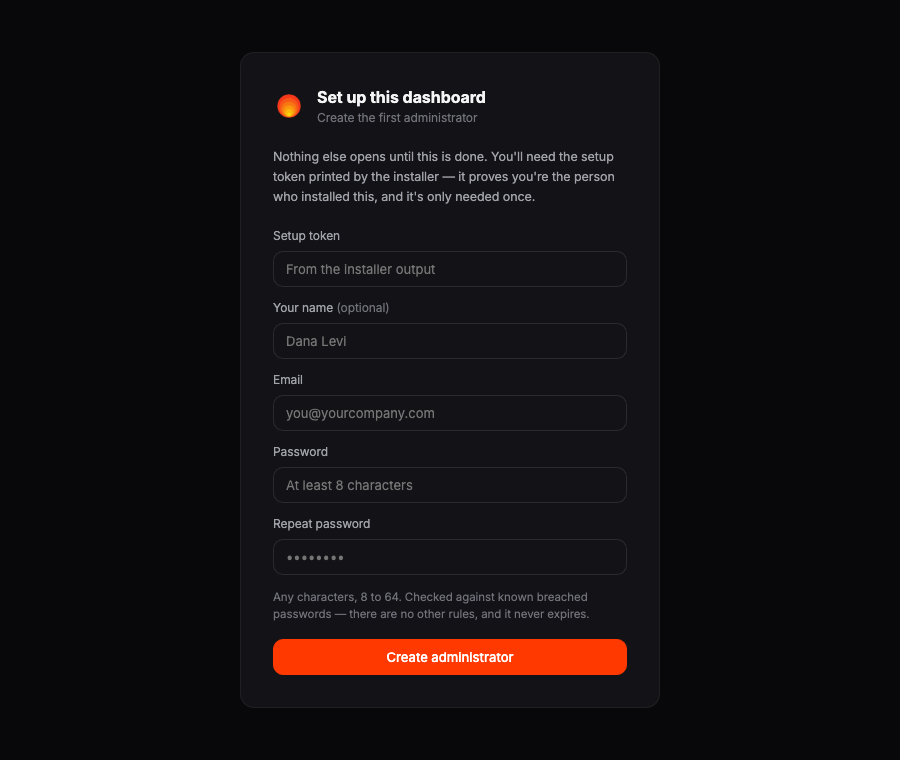
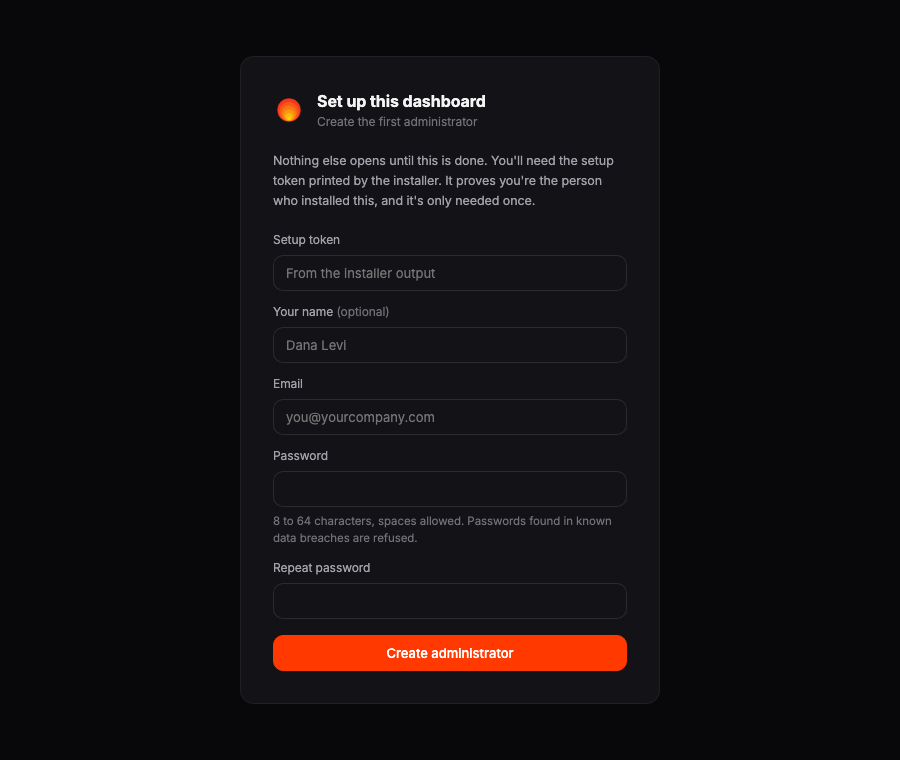
docs(accounts): recapture the Team, Account, setup, join and reset screens (MAG-5351)

diff --git a/docs/AUTH.md b/docs/AUTH.md
@@ -139,7 +139,7 @@ makes a restored backup and a locked-out install recoverable — but it means
 the token stays security-relevant for the life of the deployment, and it
 sits in the pod log. Rotate `SETUP_TOKEN` if that log is widely readable.
 
-<img src="./assets/first-run-setup.png" alt="The first-run page: a single card headed &quot;Set up this dashboard — create the first administrator&quot;, explaining that nothing else opens until this is done and that the setup token is printed by the installer. Fields for the setup token, an optional name, email, password and repeat password, with the rule &quot;8 to 64 characters, spaces allowed. Passwords found in known data breaches are refused.&quot; under the password field." width="450">
+<img src="./assets/first-run-setup.png" alt="The first-run page: a single card headed &quot;Set up this dashboard&quot;, subtitled &quot;Create the first administrator&quot;, explaining that nothing else opens until this is done and that the setup token is printed by the installer. Fields for the setup token, an optional name, email, password and repeat password, with the rule &quot;8 to 64 characters, spaces allowed. Passwords found in known data breaches are refused.&quot; under the password field." width="450">
 
 `POST /auth/setup` re-checks the zero-user condition **inside the
 transaction**, behind an advisory lock — the check outside it is only
@@ -1261,7 +1261,7 @@ from the sessions list, signing out everywhere (the other devices; the one it
 was done from is `signout`), a removal, a password reset, a two-factor reset,
 or a password change (for the other devices).
 
-<img src="./assets/account-sessions.png" alt="The Account page, scrolled down: a Connected accounts card listing Google as Linked and GitHub as Not linked; a 2FA card marked On, saying you are asked for a code from your authenticator app at each sign-in and to ask an admin to reset your 2FA if you lose your phone; a Change password card with current, new and repeat fields and a note that other devices will be signed out while this one stays; and an Active sessions card listing an unrecognized device with its own Sign out button and this device as Chrome on Linux, outlined in blue, plus a Sign out everywhere button." width="560">
+<img src="./assets/account-sessions.png" alt="The Account page: a 2FA card marked On, saying you are asked for a code from your authenticator app each time you sign in and to ask an admin to reset your 2FA if you lose your phone; a Change password card with labeled current, new and repeat fields, the password rule under the new one and a note that other devices will be signed out while this one stays; an Active sessions card listing this device as Chrome on Windows, outlined in blue, and an unrecognized device with its own Sign out button, plus a Sign out everywhere button; and the top of an About this deployment card. A deployment that offers Google or GitHub sign-in also shows a Connected accounts card, Linked or Not linked per provider." width="560">
 
 Session rows are **never deleted on revoke** — a revoked session is
 evidence, and the audit log's access events reference it. Nor are they
